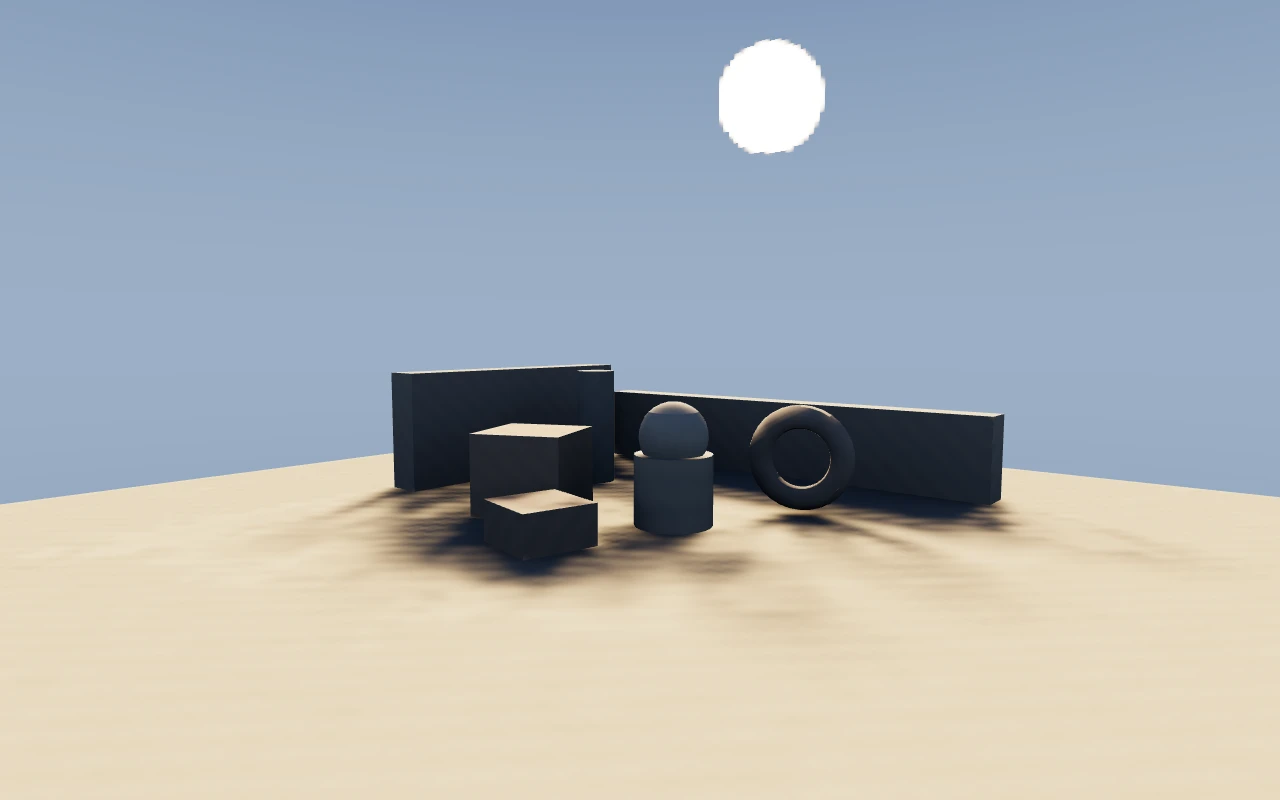
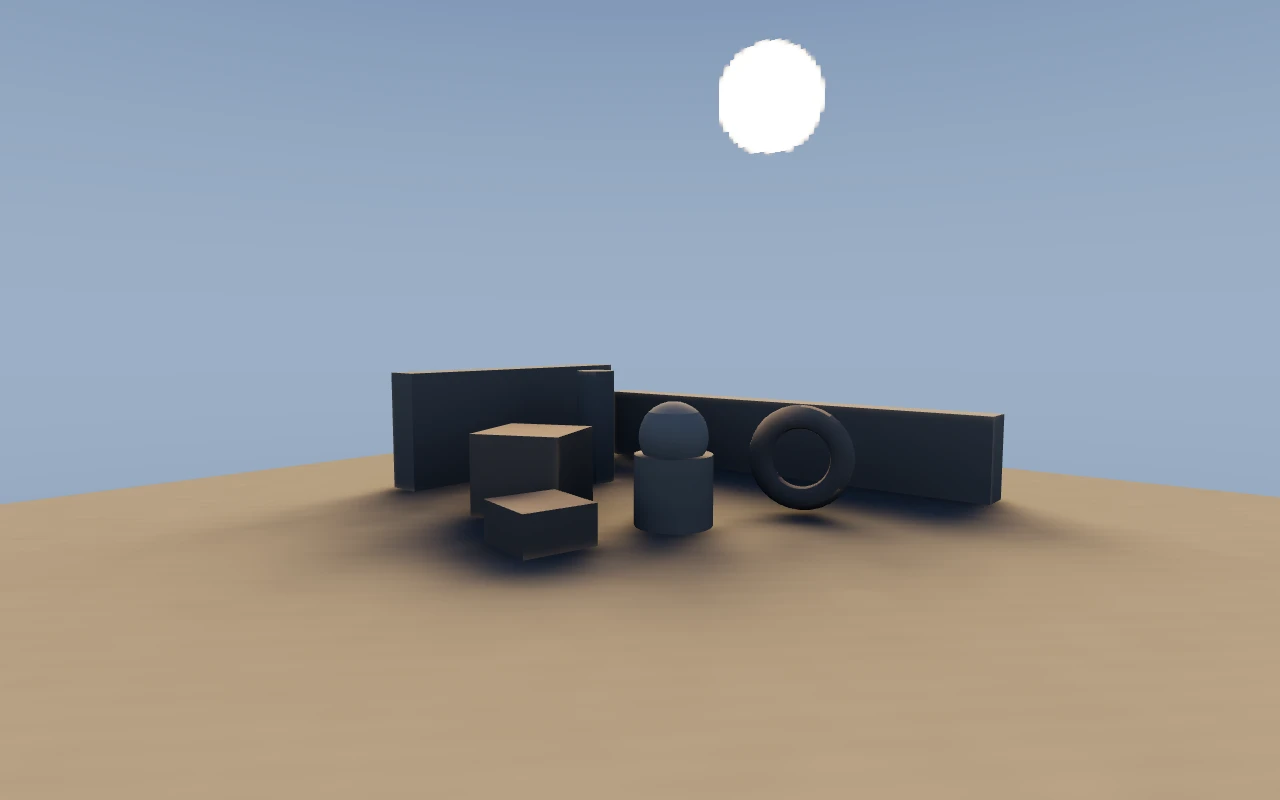
soften procedural bake sun for a single shadow
Use a 0.22 rad flux-preserving bake sun and four smoothing passes; overhead H32 and H64 captures show one soft directional shadow instead of multiple lobes.

diff --git a/site/src/environment/sky.ts b/site/src/environment/sky.ts
@@ -38,6 +38,8 @@ export const DEFAULT_PROCEDURAL_SKY_HEIGHT = 256;
 export interface ProceduralSunVariant {
   angularRadius: number;
   softness?: number;
+  /** Multiplier applied to the sun disk radiance; defaults to 1. */
+  intensity?: number;
 }
 
 interface ResolvedProceduralSky {
@@ -158,11 +160,12 @@ function smoothstep(edge0: number, edge1: number, value: number): number {
 function resolveSunVariant(
   resolved: ResolvedProceduralSky,
   variant: ProceduralSunVariant | undefined
-): { angularRadius: number; softness: number } {
+): { angularRadius: number; softness: number; intensity: number } {
   if (!variant) {
     return {
       angularRadius: resolved.sunAngularRadius,
-      softness: resolved.sunAngularRadius * 0.5
+      softness: resolved.sunAngularRadius * 0.5,
+      intensity: 1
     };
   }
 
@@ -178,7 +181,13 @@ function resolveSunVariant(
       `bake sun softness ${softness} must be in (0, ${radius})`
     );
   }
-  return { angularRadius: radius, softness };
+  const intensity = variant.intensity ?? 1;
+  if (!Number.isFinite(intensity) || intensity < 0) {
+    throw new EnvironmentError(
+      `bake sun intensity ${intensity} must be finite and non-negative`
+    );
+  }
+  return { angularRadius: radius, softness, intensity };
 }
 
 export function generateProceduralSky(
@@ -215,7 +224,10 @@ export function generateProceduralSky(
         directionX * resolved.sunDirection[0] +
         directionY * resolved.sunDirection[1] +
         directionZ * resolved.sunDirection[2];
-      const disk = smoothstep(cosOuter, cosInner, cosAngle) * resolved.sunIntensity;
+      const disk =
+        smoothstep(cosOuter, cosInner, cosAngle) *
+        resolved.sunIntensity *
+        sun.intensity;
 
       const offset = (y * width + x) * 4;
       data[offset] = gradient[0] + resolved.sunColor[0] * disk;

diff --git a/site/src/demos/sun-sky-outdoor.ts b/site/src/demos/sun-sky-outdoor.ts
@@ -18,6 +18,12 @@ function lit(name: string, geometry: GeometryData, albedo: Vec3, transform: Tran
 // A low sun toward the back-left of the default camera. The disk is part of
 // the generated equirectangular environment and acts as the directional light.
 const SUN_DIRECTION: Vec3 = [-0.5, 0.28, -0.82];
+const DISPLAY_SUN_RADIUS = 0.06;
+const BAKE_SUN_RADIUS = 0.22;
+const BAKE_SUN_SOFTNESS = 0.08;
+// Keep the bake disk's total flux close to the visible disk while making it
+// large enough for the hemicube to resolve as a smooth area light.
+const BAKE_SUN_INTENSITY = (DISPLAY_SUN_RADIUS / BAKE_SUN_RADIUS) ** 2;
 
 export const sunSkyOutdoor: SceneDefinition = {
   meta: {
@@ -36,7 +42,11 @@ export const sunSkyOutdoor: SceneDefinition = {
     ambient: [0, 0, 0],
     hemisphereWeight: "cosine",
     environmentBake: {
-      sun: { angularRadius: 0.11, softness: 0.03 }
+      sun: {
+        angularRadius: BAKE_SUN_RADIUS,
+        softness: BAKE_SUN_SOFTNESS,
+        intensity: BAKE_SUN_INTENSITY
+      }
     },
     environment: {
       kind: "sky",
@@ -49,14 +59,14 @@ export const sunSkyOutdoor: SceneDefinition = {
       sun: {
         direction: SUN_DIRECTION,
         color: [800, 600, 380],
-        angularRadius: 0.06,
+        angularRadius: DISPLAY_SUN_RADIUS,
         intensity: 1
       }
     },
     zNear: 0.01,
     zFar: 50,
     dilationPasses: 8,
-    smoothPasses: 2,
+    smoothPasses: 4,
     interpolationPasses: 1,
     interpolationThreshold: 0.5
   },

diff --git a/site/test/sky.test.ts b/site/test/sky.test.ts
@@ -187,6 +187,21 @@ describe("procedural sky generation", () => {
     loaded.texture.dispose();
   });
 
+  it("scales the bake sun independently of its angular size", () => {
+    const input = sky({ width: 64, height: 32 });
+    const bright = generateProceduralSky(input, {
+      angularRadius: 0.3,
+      softness: 0.1,
+      intensity: 1
+    });
+    const dim = generateProceduralSky(input, {
+      angularRadius: 0.3,
+      softness: 0.1,
+      intensity: 0.25
+    });
+    expect(brightestPixel(dim).value).toBeLessThan(brightestPixel(bright).value);
+  });
+
   it("rejects an invalid bake sun variant", () => {
     const input = sky({ width: 32, height: 16 });
     expect(() =>
@@ -195,6 +210,9 @@ describe("procedural sky generation", () => {
     expect(() =>
       generateProceduralSky(input, { angularRadius: 0.4, softness: 0.4 })
     ).toThrow(/bake sun softness/);
+    expect(() =>
+      generateProceduralSky(input, { angularRadius: 0.4, softness: 0.1, intensity: -1 })
+    ).toThrow(/bake sun intensity/);
   });
 });
 

diff --git a/site/test/scenes.test.ts b/site/test/scenes.test.ts
@@ -119,7 +119,7 @@ describe("scene catalog validity", () => {
   });
 
   it("uses the reduced outdoor smoothing presets", () => {
-    expect(sunSkyOutdoor.bake.smoothPasses).toBeLessThanOrEqual(2);
+    expect(sunSkyOutdoor.bake.smoothPasses).toBeLessThanOrEqual(4);
     expect(hdriOutdoor.bake.smoothPasses).toBeLessThanOrEqual(4);
     expect(hdriStudio.bake.smoothPasses).toBe(12);
   });

diff --git a/openspec/changes/improve-outdoor-sun-lighting/tasks.md b/openspec/changes/improve-outdoor-sun-lighting/tasks.md
@@ -16,14 +16,14 @@
 
 ## 3. Bake sun, prefilter, smoothing and quality
 
-- [x] 3.1 Add a bake-only sun variant to the procedural sky: keep the display disk at `0.06 rad`, use a larger and softer bake lobe in the `0.09–0.12 rad` range with a `0.02–0.03 rad` soft edge, and preserve direction, colors, intensity and orientation. Verify the sky test and the sampling-budget check.
+- [x] 3.1 Add a bake-only sun variant to the procedural sky: keep the display disk at `0.06 rad`, use a larger `0.22 rad` bake lobe with a `0.08 rad` soft edge and a flux-preserving intensity scale, and preserve direction, colors, intensity and orientation. Verify the sky test and the sampling-budget check.
 - [x] 3.2 Add a wider HDRI prefilter option for the outdoor bake copy while keeping the full decoded HDRI for display; leave `hdri-studio` on its current prefilter. Verify the environment test confirms the bake/display variants and unchanged studio behavior.
-- [x] 3.3 Reduce the outdoor smoothing presets from the current 4 and 12 passes (start at 1–2 for `sun-sky-outdoor` and 2–4 for `hdri-outdoor`), keep dilation for chart borders, and keep standard H64/high H128/preview H32. Verify the one-soft-shadow and exposure checks at both H64 and H128.
+- [x] 3.3 Use four smoothing passes for `sun-sky-outdoor` and four for `hdri-outdoor` (down from twelve for the HDRI), keep dilation for chart borders, and keep standard H64/high H128/preview H32. Verify the one-soft-shadow and exposure checks at both H64 and H128.
 - [x] 3.4 Add harness/site checks that the outdoor bake produces one soft directional shadow rather than multiple hemicube-shaped lobes, and that H64/H128 preserve the shadow direction and approximate softness. Verify the harness suite fails if the bake sun falls below the sampling budget.
 
 ## 4. Scenes, thumbnails and records
 
-- [x] 4.1 Set `sun-sky-outdoor` to cosine weighting, its bake-sun radius/softness and its reduced smoothing; keep the display's `0.06 rad` disk. Verify the scene test, a stage capture, and the sampling budget.
+- [x] 4.1 Set `sun-sky-outdoor` to cosine weighting, its `0.22 rad` flux-preserving bake sun and four smoothing passes; keep the display's `0.06 rad` disk. Verify the scene test, the overhead H32/H64 stage captures, and the sampling budget.
 - [x] 4.2 Set `hdri-outdoor` to cosine weighting, the wider bake prefilter and its reduced smoothing; keep the full HDRI background. Verify the scene/harness tests and a stage capture showing one dominant sun with soft cloud fill.
 - [x] 4.3 Confirm `ao-studio`, `cornell-box`, `emissive-alcove`, `tabletop-atlas` and `hdri-studio` keep uniform weighting and their existing environment/smoothing presets. Verify their scene tests.
 - [x] 4.4 Wire the scene `hemisphereWeight` and bake-environment options through `site/src/demo-page.ts`, and confirm the stage/statistics/smoke flow does not introduce a new bake stage. Verify `CHROME_SHELL_PATH=… npm run test:smoke --prefix site`.

diff --git a/openspec/changes/improve-outdoor-sun-lighting/design.md b/openspec/changes/improve-outdoor-sun-lighting/design.md
@@ -75,11 +75,12 @@ disk:
 | Variant | Angular radius | Diameter | H64 texels |
 |---|---:|---:|---:|
 | display `sun-sky-outdoor` | 0.06 rad | 6.88° | 4.9 |
-| bake target at H64 | 0.09–0.12 rad | 10.3–13.8° | 7.3–9.8 |
-| bake target at H128 | 0.09–0.12 rad | 10.3–13.8° | 14.6–19.6 |
+| bake target at H64 | 0.22 rad | 25.2° | 17.9 |
+| bake target at H128 | 0.22 rad | 25.2° | 35.8 |
 | alternative: H128, 0.06 rad | 0.06 rad | 6.88° | 9.8 |
 
-The bake lobe also gets a wider soft edge (roughly 0.02–0.03 rad). The result
+The bake lobe also gets a wider soft edge (`0.08 rad`) and a flux-preserving
+intensity scale. The result
 is one stable, softer shadow per occluder rather than multiple hemicube lobes.
 The shadow is intentionally softer than the displayed disk; crispness is not a
 goal for this change.
@@ -135,13 +136,14 @@ structured hemicube variation into multiple soft lobes.
 
 With a well-sampled bake sun:
 
-- `sun-sky-outdoor`: 1–2 smoothing passes.
-- `hdri-outdoor`: 2–4 smoothing passes.
+- `sun-sky-outdoor`: four smoothing passes.
+- `hdri-outdoor`: four smoothing passes, down from twelve.
 - Keep dilation for chart-border coverage.
 - Keep one fine interpolation pass unless it produces diamonds.
 - Standard quality remains H64; high is H128. The preview remains H32.
 
-The exact pass counts and bake radius are tuned in apply against the
+The larger bake sun is the primary fix; smoothing only removes the residual
+banding. The exact pass counts and bake radius are tuned in apply against the
 one-soft-shadow and exposure checks. The sampling budget is measured as:
 
 ```text
@@ -212,8 +214,9 @@ covers both the root package and the site, headless on ANGLE SwiftShader:
   outdoor sun/sky intensity and verify the overall exposure against the current
   bake. Keep non-outdoor scenes uniform.
 - **The bake sun becomes visibly larger than the display disk** → keep the
-  display at `0.06 rad`; tune the bake radius in the 0.09–0.12 range and review
-  the stage capture rather than making the display sun artificial.
+  display at `0.06 rad`; the bake radius is `0.22 rad` with total flux preserved
+  by scaling the disk intensity, and the stage capture is reviewed rather than
+  making the display sun artificial.
 - **Partly cloudy HDRI still has multiple soft cloud shadows** → documented
   policy; clear-sky HDRI is out of scope.
 - **H128 high preset is slower** → standard stays H64; high is explicit; the
@@ -253,6 +256,6 @@ No `[lightmapper]` header change or submodule bump is part of this decision.
 
 ## Open Questions
 
-None. The exact bake-sun radius, prefilter width and smoothing counts are
-apply-time tuning within the ranges above; they do not change the specs or the
-task breakdown.
+None. The bake-sun radius, flux scale, prefilter width and smoothing counts
+were tuned in apply against the overhead visual check; the final values are
+recorded above and in the scene.

diff --git a/site/README.md b/site/README.md
@@ -22,7 +22,7 @@ Cornell box is one catalog example, not a featured shortcut.
 | `tabletop-atlas` | Twelve lit meshes in one shared xatlas atlas | 1024² atlas, H64, 2 bounces, warm emitter |
 | `hdri-studio` | Environment-only studio lighting from a checked-in 1k HDRI | 512² atlas, H32, 2 bounces, black ambient + HDRI |
 | `hdri-outdoor` | Environment-only midday outdoor lighting from a checked-in 1k sky HDRI | 512² atlas, H32 preset, 2 bounces, cosine, 7-tap prefilter |
-| `sun-sky-outdoor` | Non-HDRI outdoor lighting from a generated procedural sky and directional sun | 512² atlas, H64, 2 bounces, cosine, 0.11 rad bake sun |
+| `sun-sky-outdoor` | Non-HDRI outdoor lighting from a generated procedural sky and directional sun | 512² atlas, H64, 2 bounces, cosine, 0.22 rad bake sun |
 
 Sections are technique filters: `ambient`, `environment`, `gi`, `emissive` and
 `multi-object`. The `environment` section covers both checked-in HDRI and
@@ -211,13 +211,14 @@ environment, it acts as the scene's directional light and is occluded by scene
 geometry. The generator validates its descriptor and reuses
 `validateBakeEnvironment`; it never fetches an asset.
 
-The display keeps the `0.06` rad visible disk. The bake uses a larger, softer
-lobe (`0.11` rad with a `0.03` rad soft edge) so the H64 hemicube sees at least
-six texels. That is deliberately an area light: the shadow is soft, not a
-crisp parallel sun. The preset uses a 1024 × 512 environment, black ambient,
-cosine hemisphere weighting and two smoothing passes; standard quality is H64,
-high is H128 and preview uses draft H32. There is no separate shadow-map or
-direct-light pass; the environment remains the only lighting input.
+The display keeps the `0.06` rad visible disk. The bake uses a much larger,
+softer lobe (`0.22` rad with a `0.08` rad soft edge and a flux-preserving
+intensity scale) so the H64 hemicube sees about eighteen texels. That is
+deliberately an area light: the shadow is soft, not a crisp parallel sun. The
+preset uses a 1024 × 512 environment, black ambient, cosine hemisphere
+weighting and four smoothing passes; standard quality is H64, high is H128 and
+preview uses draft H32. There is no separate shadow-map or direct-light pass;
+the environment remains the only lighting input.
 
 The site scene test enforces the sampling budget as
 `sunAngularDiameter / (90 / hemisphereSize) >= 6` at H64 and H128. The H32

diff --git a/openspec/changes/improve-outdoor-sun-lighting/proposal.md b/openspec/changes/improve-outdoor-sun-lighting/proposal.md
@@ -14,7 +14,7 @@ The goal is a clean single soft shadow per occluder, not a crisp parallel sun.
 A separate shadow-map pass would fix the symptom by bypassing lightmapper and
 creating a second lighting model. This change instead improves what the
 hemicube is asked to integrate: a well-sampled bake sun, cosine-weighted
-hemisphere integration and less smoothing.
+hemisphere integration and bounded smoothing.
 
 ## What Changes
 
@@ -26,9 +26,9 @@ hemisphere integration and less smoothing.
   `0.06 rad` display disk, but use a larger and softer bake-only sun lobe so it
   covers at least six hemicube texels. No sun is removed from the environment
   and no direct-light path is added.
-- Reduce the outdoor smoothing: `sun-sky-outdoor` to 1–2 passes and
-  `hdri-outdoor` to 2–4, replacing the current 4 and 12. Widen the HDRI bake
-  prefilter if needed; the display keeps the full-resolution HDRI.
+- Use four smoothing passes for both outdoor scenes (down from twelve for
+  `hdri-outdoor`); the much larger bake sun is the primary fix. Widen the HDRI
+  bake prefilter if needed; the display keeps the full-resolution HDRI.
 - Add a scene-test sampling-budget check from the sun angular diameter and the
   selected hemisphere size. The standard preset stays H64; high remains H128.
 - Recalibrate the outdoor sun/sky exposure for cosine weighting, recapture the

diff --git a/openspec/changes/improve-outdoor-sun-lighting/specs/showcase-site/spec.md b/openspec/changes/improve-outdoor-sun-lighting/specs/showcase-site/spec.md
@@ -95,17 +95,17 @@ contract, and invalid data SHALL be rejected before GPU resources are created.
 
 ### Requirement: Outdoor smoothing and quality presets
 
-The outdoor scene presets SHALL reduce smoothing from the current four and
-twelve passes and SHALL NOT rely on smoothing to hide hemicube sampling. The
-standard preset SHALL remain H64 and the high preset SHALL use H128.
+The outdoor scene presets SHALL use at most four smoothing passes and SHALL
+NOT rely on smoothing alone to hide hemicube sampling. The standard preset
+SHALL remain H64 and the high preset SHALL use H128.
 
-#### Scenario: Procedural smoothing is reduced
+#### Scenario: Procedural smoothing stays bounded
 - **WHEN** `sun-sky-outdoor` is baked
-- **THEN** it uses fewer smoothing passes than the current four and still passes the one-soft-shadow check
+- **THEN** it uses four smoothing passes and still passes the one-soft-shadow check
 
 #### Scenario: HDRI smoothing is reduced
 - **WHEN** `hdri-outdoor` is baked
-- **THEN** it uses fewer smoothing passes than the current twelve and still passes the one-soft-shadow check
+- **THEN** it uses four smoothing passes, down from twelve, and still passes the one-soft-shadow check
 
 #### Scenario: Standard and high presets
 - **WHEN** the quality selector is changed

diff --git a/docs/wasm-improvements.md b/docs/wasm-improvements.md
@@ -892,8 +892,9 @@ harness/display promotions.
 
 **Status:** Implemented. The outdoor scenes no longer rely on a near-delta sun
 sampled by the low-resolution hemicube. `sun-sky-outdoor` keeps its `0.06 rad`
-display disk but bakes a larger, softer `0.11 rad` lobe; `hdri-outdoor` uses a
-seven-tap prefiltered bake copy and fewer smoothing passes. Both use the
+display disk but bakes a larger, softer `0.22 rad` lobe with a flux-preserving
+intensity scale; `hdri-outdoor` uses a seven-tap prefiltered bake copy and
+fewer smoothing passes. Both use the
 library's cosine hemisphere weight through the new
 `lmSetCosineWeights` wrapper method, and the site enforces a six-texel sampling
 budget at H64/H128. The shadows are intentionally soft area-light shadows, not
